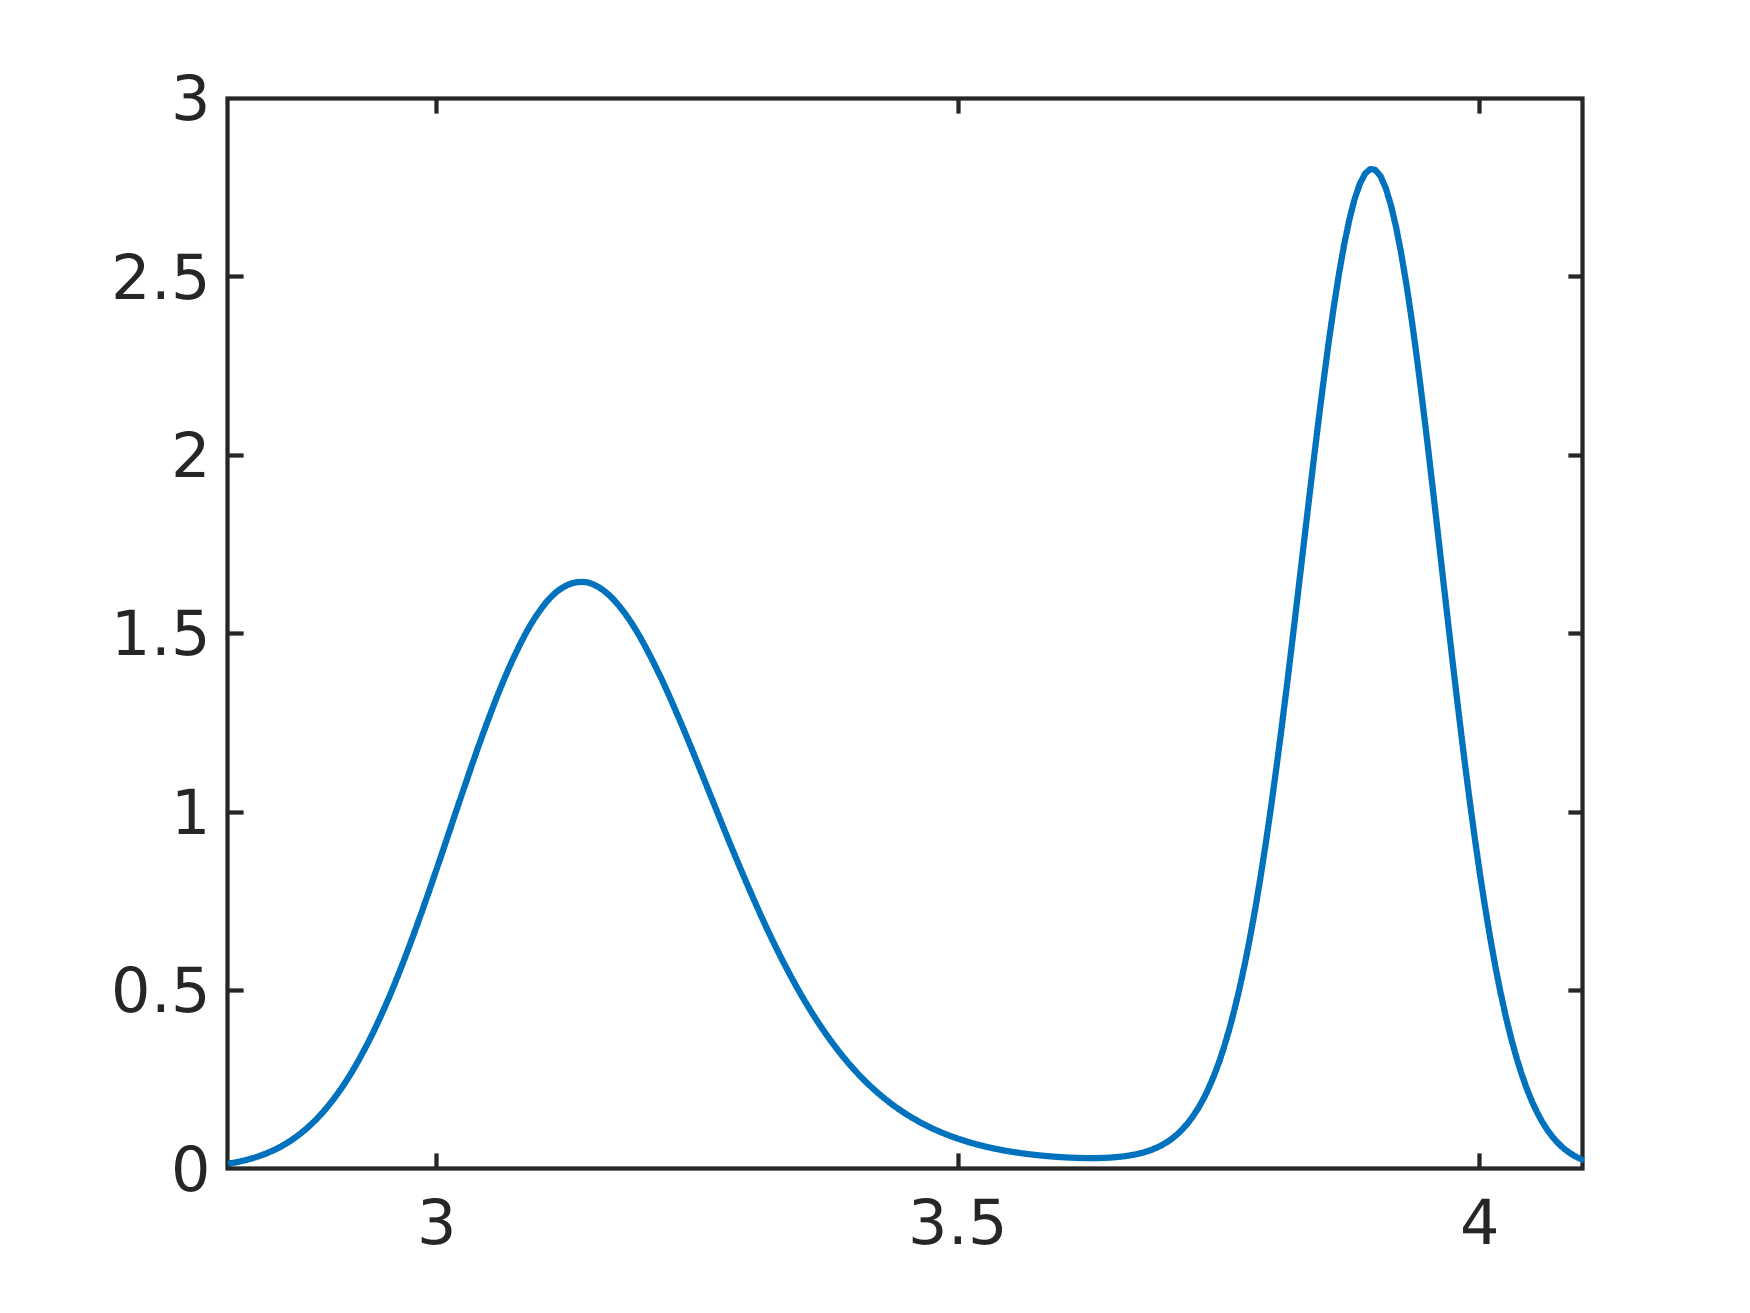
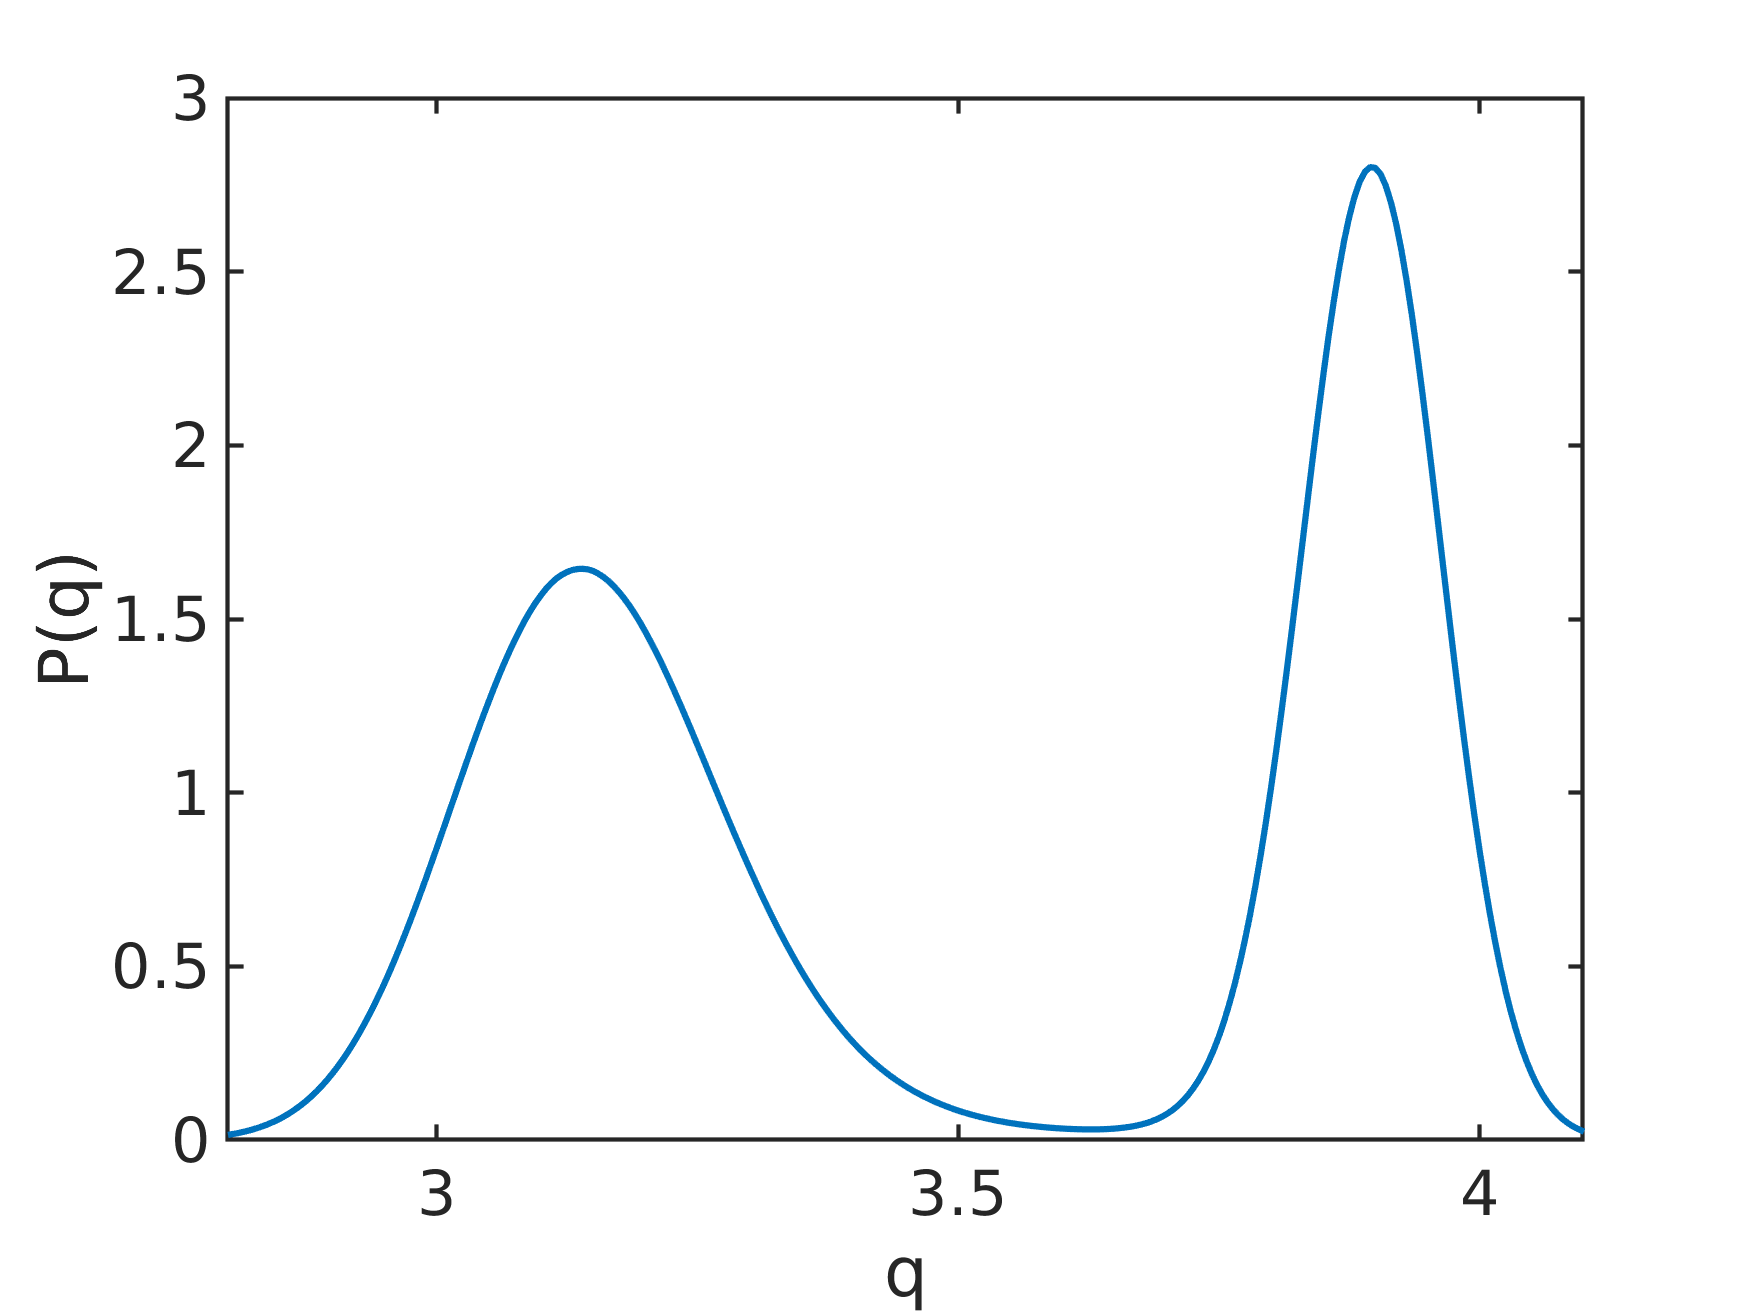
update

diff --git a/case_bimodal/main.m b/case_bimodal/main.m
@@ -45,10 +45,19 @@ figure(1);hold on;box on;
 set(gcf, 'DefaultLineLineWidth', 3.0,'DefaultLineMarkerSize',12);
 plot(PDF.ff_x,PDF.pdf)
 xlim([2.8,4.1])
+xlabel('q');ylabel('P(q)')
 set(gca,'FontSize',30,'LineWidth',2.0)
 saveas(gcf,'fig/PDF.png')
 
 figure(2);hold on;box on;
+set(gcf, 'DefaultLineLineWidth', 3.0,'DefaultLineMarkerSize',12);
+plot(PDF.ff_x,-log(PDF.pdf))
+xlim([2.8,4.1])
+xlabel('q');ylabel('U(q)/k_BT')
+set(gca,'FontSize',30,'LineWidth',2.0)
+saveas(gcf,'fig/FreeEnergy.png')
+
+figure(3);hold on;box on;
 set(gcf, 'DefaultLineLineWidth', 3.0,'DefaultLineMarkerSize',12);
 corr_ver='corr_vv';
 plot(corr1.corr_t,corr1.(corr_ver),'Displayname','MD')
@@ -59,7 +68,7 @@ legend
 set(gca,'FontSize',30,'LineWidth',2.0)
 saveas(gcf,'fig/corr_vv.png')
 
-figure(3);hold on;box on;
+figure(4);hold on;box on;
 set(gcf, 'DefaultLineLineWidth', 3.0,'DefaultLineMarkerSize',12);
 corr_ver='xcorr_vv';
 i=1;
@@ -77,7 +86,7 @@ end
 saveas(gcf,'fig/xcorr_vv.png')
 
 
-figure(4);hold on;box on;
+figure(5);hold on;box on;
 set(gcf, 'DefaultLineLineWidth', 3.0,'DefaultLineMarkerSize',12);
 t_sample = 80:80:8000;bd=80;
 plot(t_sample,ksdensity(corr1.t_A_B,t_sample,"Bandwidth",bd),'Displayname','MD')
